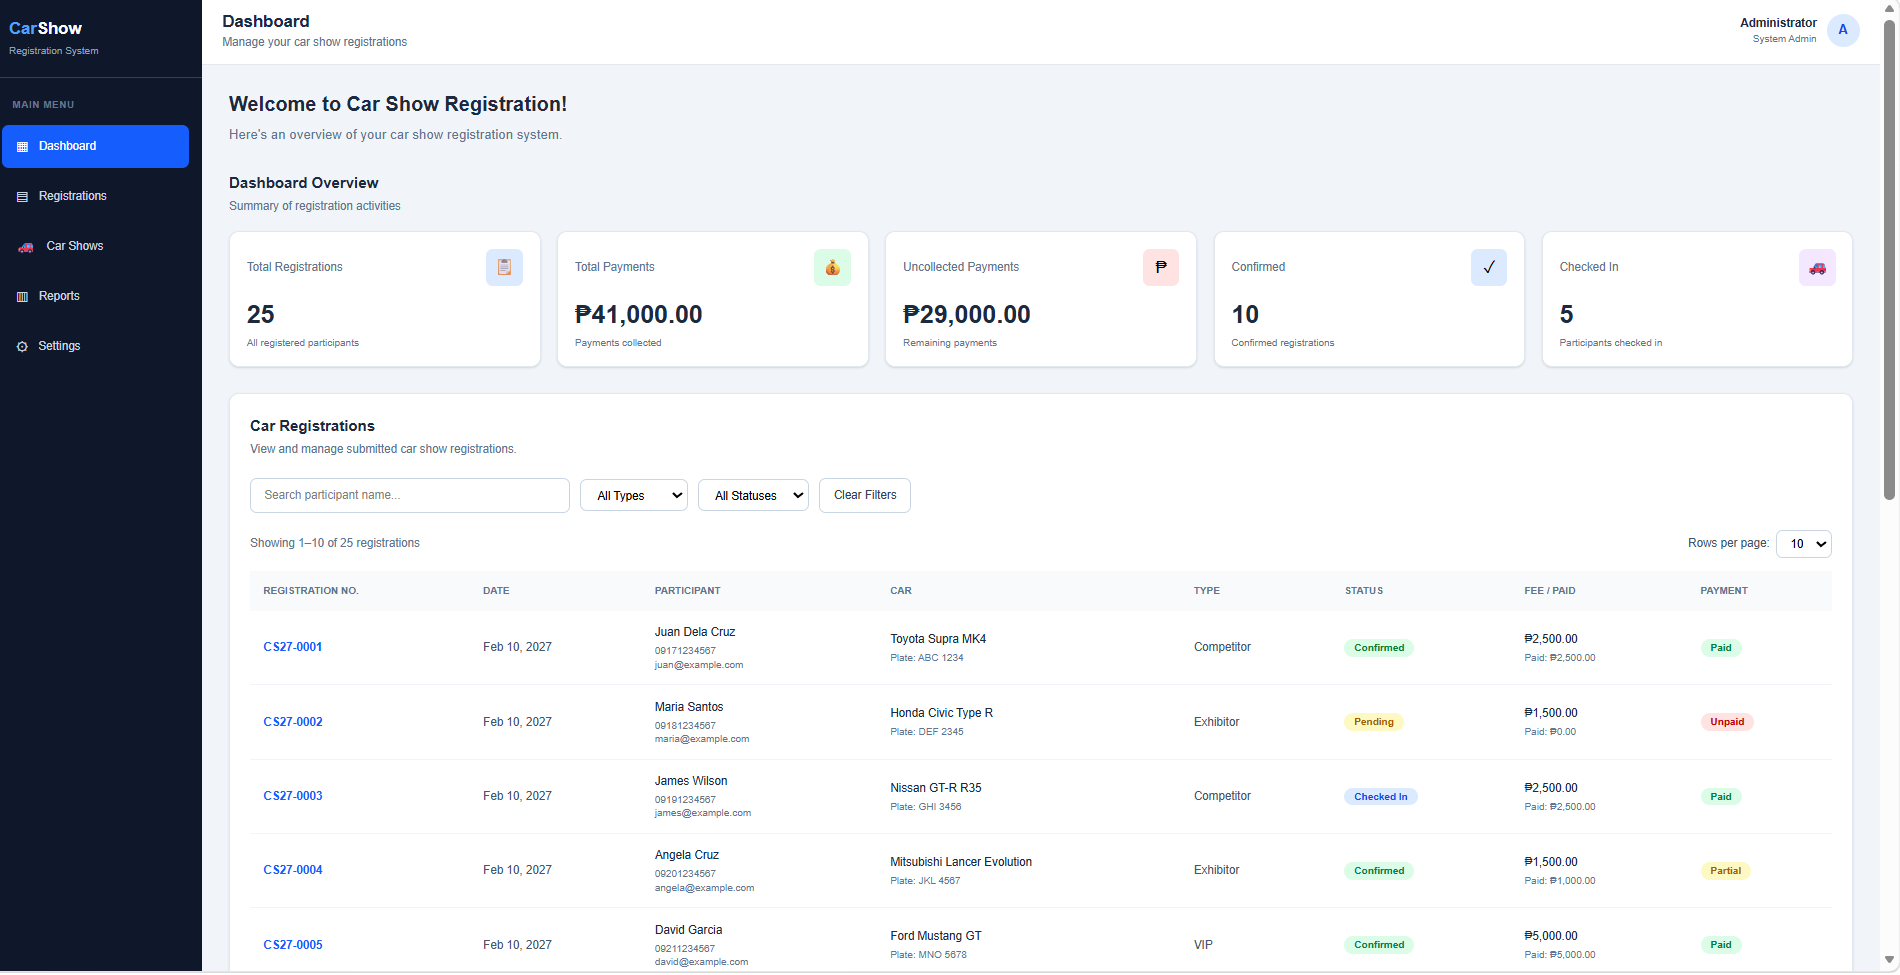
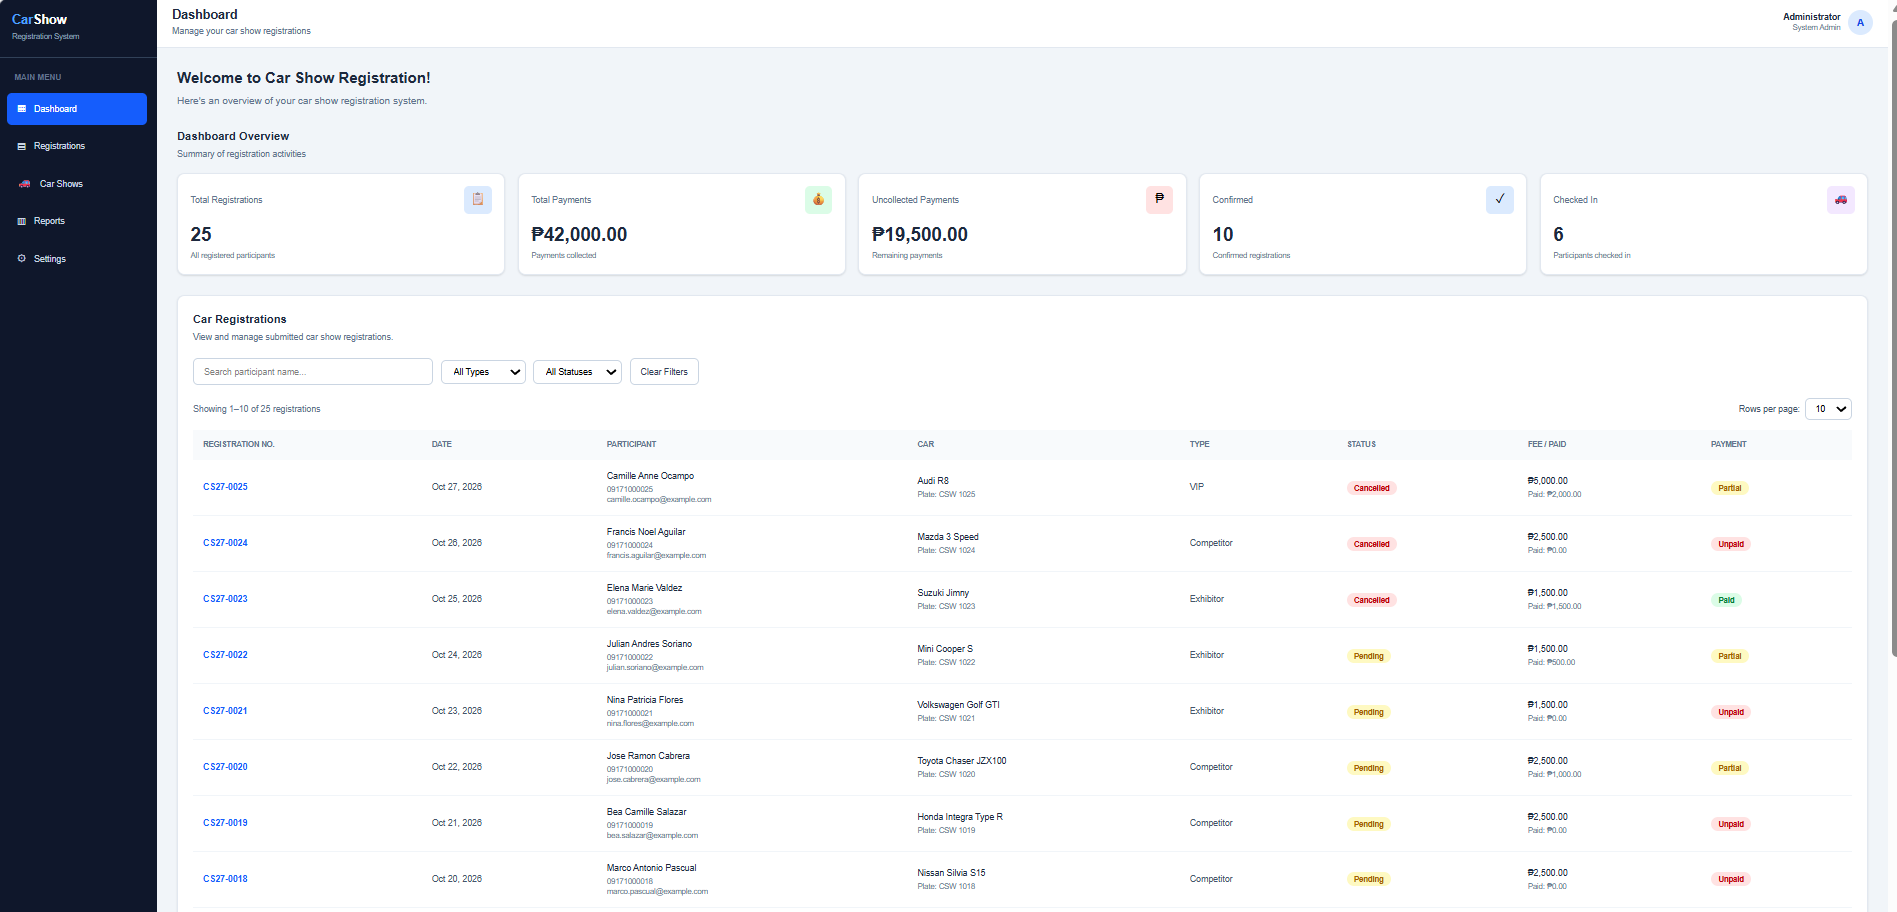
Integrate frontend with car show backend API

diff --git a/frontend/src/api/registrationsApi.js b/frontend/src/api/registrationsApi.js
@@ -1,0 +1,74 @@
+
+const API_BASE_URL =
+  import.meta.env.VITE_API_BASE_URL || "http://localhost:5205";
+
+async function handleResponse(response) {
+  if (!response.ok) {
+    let message = `API Error: ${response.status}`;
+
+    try {
+      const errorData = await response.json();
+
+      message =
+        errorData.detail ||
+        errorData.title ||
+        errorData.message ||
+        message;
+
+      if (errorData.errors) {
+        const validationMessages = Object.values(errorData.errors)
+          .flat()
+          .join(", ");
+
+        if (validationMessages) {
+          message = validationMessages;
+        }
+      }
+    } catch {
+      // Keep the default error message if the response is not JSON.
+    }
+
+    throw new Error(message);
+  }
+
+  return response.json();
+}
+
+export async function getRegistrations({
+  participantName = "",
+  type = "",
+  status = "",
+  page = 1,
+  pageSize = 10,
+} = {}) {
+  const params = new URLSearchParams();
+
+  if (participantName.trim()) {
+    params.append("participantName", participantName.trim());
+  }
+
+  if (type && type !== "All") {
+    params.append("type", type);
+  }
+
+  if (status && status !== "All") {
+    params.append("status", status);
+  }
+
+  params.append("page", page);
+  params.append("pageSize", pageSize);
+
+  const response = await fetch(
+    `${API_BASE_URL}/api/registrations?${params.toString()}`
+  );
+
+  return handleResponse(response);
+}
+
+export async function getSummary() {
+  const response = await fetch(
+    `${API_BASE_URL}/api/registrations/summary`
+  );
+
+  return handleResponse(response);
+}

diff --git a/frontend/src/App.jsx b/frontend/src/App.jsx
@@ -2,7 +2,7 @@
 import { useEffect, useState } from "react";
 import { registrations as initialRegistrations } from "./data/registrations.js";
 import { carShows as initialCarShows } from "./data/carShows.js";
-import { getSummary } from "./api/sample-data.js";
+import { getSummary } from "./api/registrationsApi.js";
 import CarShowTable from "./components/CarShowTable";
 import Sidebar from "./components/Sidebar";
 import Header from "./components/Header";

diff --git a/frontend/src/components/RegistrationTable.jsx b/frontend/src/components/RegistrationTable.jsx
@@ -1,6 +1,6 @@
 
 import { useEffect, useState } from "react";
-import { getRegistrations } from "../api/sample-data.js";
+import { getRegistrations } from "../api/registrationsApi.js";
 
 function RegistrationTable() {
   const [registrations, setRegistrations] = useState([]);
